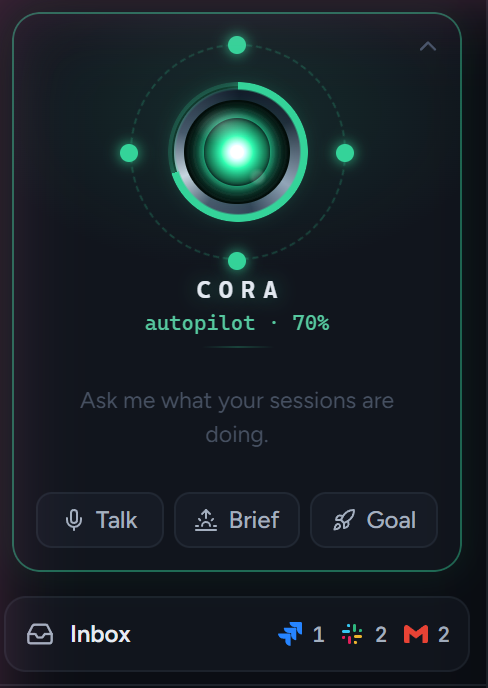
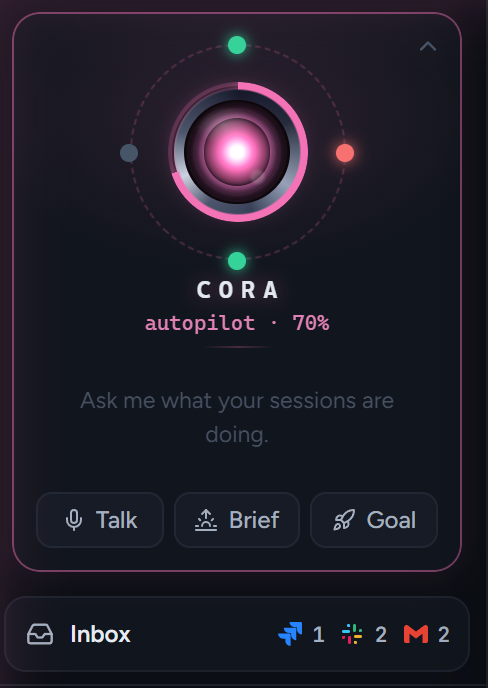
Autopilot in Cora's colour

diff --git a/packages/client/src/components/console.css b/packages/client/src/components/console.css
@@ -27,32 +27,32 @@
 .cc-menu > i { height: 1px; margin: 4px 6px; background: var(--hair); }
 .cora-console .cc-err { background: color-mix(in srgb, var(--need) 10%, var(--nav)); color: #ffc9c9; font: 500 11.5px var(--code); }
 
-/* autopilot: a panel tinted green */
-.cora-console .cc-goal, .cora-cmd .cc-goal { margin: 12px 12px 0; padding: 11px 12px; border: 0; border-radius: 12px; background: color-mix(in srgb, var(--work) 5%, var(--raise)); box-shadow: inset 0 0 0 1px color-mix(in srgb, var(--work) 28%, transparent); }
+/* autopilot: a panel tinted in Cora's colour */
+.cora-console .cc-goal, .cora-cmd .cc-goal { margin: 12px 12px 0; padding: 11px 12px; border: 0; border-radius: 12px; background: color-mix(in srgb, var(--cora) 5%, var(--raise)); box-shadow: inset 0 0 0 1px color-mix(in srgb, var(--cora) 28%, transparent); }
 .cora-cmd .cc-goal { margin: 0; }
 .cora-console .cc-goal.idle, .cora-cmd .cc-goal.idle { padding: 10px; }
 .cora-console .cc-goal.compose, .cora-cmd .cc-goal.compose { background: var(--raise); box-shadow: inset 0 0 0 1px var(--hair2); }
 .cora-console .cc-goal.st-waiting, .cora-cmd .cc-goal.st-waiting { box-shadow: inset 0 0 0 1px color-mix(in srgb, var(--think) 35%, transparent); }
 .cora-console .cc-goal.st-blocked, .cora-cmd .cc-goal.st-blocked { background: color-mix(in srgb, var(--need) 5%, var(--raise)); box-shadow: inset 0 0 0 1px color-mix(in srgb, var(--need) 35%, transparent); }
-.cc-goal .cg-ico { width: 30px; height: 30px; border: 0; border-radius: 8px; background: color-mix(in srgb, var(--work) 14%, var(--nav)); box-shadow: inset 0 0 0 1px color-mix(in srgb, var(--work) 35%, transparent); color: var(--work); }
+.cc-goal .cg-ico { width: 30px; height: 30px; border: 0; border-radius: 8px; background: color-mix(in srgb, var(--cora) 14%, var(--nav)); box-shadow: inset 0 0 0 1px color-mix(in srgb, var(--cora) 35%, transparent); color: var(--cora); }
 .cc-goal .cg-idle-t b { color: var(--ink); font: 600 12.5px var(--ui); }
 .cc-goal .cg-idle-t .dim { color: var(--ink3); font: 400 11.5px/1.4 var(--ui); }
-.cc-goal .cg-start { height: 28px; border: 0; border-radius: 8px; background: color-mix(in srgb, var(--work) 14%, var(--raise)); box-shadow: inset 0 0 0 1px color-mix(in srgb, var(--work) 40%, transparent); color: #d9fbe9; font: 500 12px var(--ui); }
-.cc-goal .cg-start:hover { background: color-mix(in srgb, var(--work) 22%, var(--raise)); box-shadow: inset 0 0 0 1px var(--work); }
-.cc-goal .cg-tag { color: var(--work); font: 600 9.5px var(--code); letter-spacing: .14em; }
+.cc-goal .cg-start { height: 28px; border: 0; border-radius: 8px; background: color-mix(in srgb, var(--cora) 14%, var(--raise)); box-shadow: inset 0 0 0 1px color-mix(in srgb, var(--cora) 40%, transparent); color: var(--cora-hi); font: 500 12px var(--ui); }
+.cc-goal .cg-start:hover { background: color-mix(in srgb, var(--cora) 22%, var(--raise)); box-shadow: inset 0 0 0 1px var(--cora); }
+.cc-goal .cg-tag { color: var(--cora); font: 600 9.5px var(--code); letter-spacing: .14em; }
 .cc-goal .cg-state { color: var(--ink3); font: 500 10.5px var(--code); }
 .cc-goal.st-waiting .cg-state { color: var(--think); }
 .cc-goal.st-blocked .cg-state { color: var(--need); }
 .cc-goal .cg-text { margin: 6px 0 9px; color: var(--ink); font: 500 13px/1.45 var(--ui); }
 .cc-goal .cg-bar { height: 3px; border-radius: 2px; background: var(--raise2); }
-.cc-goal .cg-bar i { border-radius: 2px; background: var(--work); box-shadow: none; }
+.cc-goal .cg-bar i { border-radius: 2px; background: var(--cora); box-shadow: none; }
 .cc-goal .cg-meta { margin-top: 8px; color: var(--ink4); font: 500 10.5px var(--code); }
 .cc-goal .cg-meta .warn { color: var(--think); }
 .cc-goal .cg-workers .linkish { color: var(--ink2); }
-.cc-goal .cg-workers .linkish::before { content: ''; display: inline-block; width: 6px; height: 6px; margin-right: 5px; border-radius: 50%; background: var(--work); vertical-align: 1px; }
+.cc-goal .cg-workers .linkish::before { content: ''; display: inline-block; width: 6px; height: 6px; margin-right: 5px; border-radius: 50%; background: var(--cora); vertical-align: 1px; }
 .cc-goal .cg-note { margin-top: 8px; color: var(--ink2); font: 400 12.5px/1.5 var(--ui); }
 .cc-goal.compose textarea { border: 0; border-radius: 8px; background: var(--nav); box-shadow: inset 0 0 0 1px var(--hair); color: var(--ink); font: 400 13px/1.5 var(--ui); }
-.cc-goal.compose textarea:focus { box-shadow: inset 0 0 0 1px color-mix(in srgb, var(--work) 50%, transparent); }
+.cc-goal.compose textarea:focus { box-shadow: inset 0 0 0 1px color-mix(in srgb, var(--cora) 50%, transparent); }
 .cc-goal .cg-row select { border: 0; border-radius: 7px; background: var(--nav); box-shadow: inset 0 0 0 1px var(--hair2); color: var(--ink2); font: 500 11px var(--code); }
 .cc-goal .btn.ghost { height: 22px; padding: 0 9px; border: 0; border-radius: 6px; background: var(--raise2); box-shadow: inset 0 0 0 1px var(--hair2); color: var(--ink2); font: 500 11px var(--ui); }
 
@@ -126,7 +126,7 @@
 /* ---------- command mode: the same pieces at full size ---------- */
 .cora-cmd { background: radial-gradient(700px 480px at 50% 34%, color-mix(in srgb, var(--c) 7%, transparent), transparent 70%), rgba(6, 8, 13, .97); color: var(--ink2); font-family: var(--ui); }
 .cora-cmd.st-idle, .cora-cmd.st-off { --c: var(--cora); }
-.cora-cmd.st-autopilot { --c: var(--work); }
+.cora-cmd.st-autopilot { --c: var(--cora); }
 .cora-cmd.st-thinking { --c: var(--think); }
 .cora-cmd.st-needs-you { --c: var(--need); }
 .cora-cmd .cm-lens::before { width: 560px; height: 560px; background: radial-gradient(circle, color-mix(in srgb, var(--c) 9%, transparent), transparent 62%); }
@@ -174,27 +174,27 @@
 
 /* autopilot in the header: a Goal button, or a pill with the running goal's progress */
 .cora-console .cc-gpill { display: inline-flex; align-items: center; gap: 6px; height: 24px; padding: 0 9px 0 7px; border: 0; border-radius: 7px; background: var(--raise); box-shadow: inset 0 0 0 1px var(--hair2); color: var(--ink2); font: 500 11.5px var(--ui); white-space: nowrap; cursor: pointer; }
-.cora-console .cc-gpill svg { color: var(--work); }
+.cora-console .cc-gpill svg { color: var(--cora); }
 .cora-console .cc-gpill:hover, .cora-console .cc-gpill.on { background: var(--raise2); color: var(--ink); }
-.cora-console .cc-gpill.live { background: color-mix(in srgb, var(--work) 9%, var(--raise)); box-shadow: inset 0 0 0 1px color-mix(in srgb, var(--work) 40%, transparent); color: #d9fbe9; font: 500 11px var(--code); }
+.cora-console .cc-gpill.live { background: color-mix(in srgb, var(--cora) 9%, var(--raise)); box-shadow: inset 0 0 0 1px color-mix(in srgb, var(--cora) 40%, transparent); color: var(--cora-hi); font: 500 11px var(--code); }
 .cora-console .cc-gpill.live.st-waiting { box-shadow: inset 0 0 0 1px color-mix(in srgb, var(--think) 45%, transparent); color: #fde9b0; }
 .cora-console .cc-gpill.live.st-blocked { box-shadow: inset 0 0 0 1px color-mix(in srgb, var(--need) 45%, transparent); color: #ffc9c9; }
-.cc-ring { width: 13px; height: 13px; border-radius: 50%; background: conic-gradient(var(--work) calc(var(--p) * 1%), var(--raise2) 0); -webkit-mask: radial-gradient(circle, transparent 3.5px, #000 4px); mask: radial-gradient(circle, transparent 3.5px, #000 4px); }
+.cc-ring { width: 13px; height: 13px; border-radius: 50%; background: conic-gradient(var(--cora) calc(var(--p) * 1%), var(--raise2) 0); -webkit-mask: radial-gradient(circle, transparent 3.5px, #000 4px); mask: radial-gradient(circle, transparent 3.5px, #000 4px); }
 .st-waiting > .cc-ring { background: conic-gradient(var(--think) calc(var(--p) * 1%), var(--raise2) 0); }
 .st-blocked > .cc-ring { background: conic-gradient(var(--need) calc(var(--p) * 1%), var(--raise2) 0); }
 /* under the header while a goal runs: what it's on, in one line */
-.cora-console .cc-gline { flex: none; display: flex; align-items: center; gap: 8px; height: 30px; padding: 0 12px; border: 0; border-bottom: 1px solid var(--hair); background: color-mix(in srgb, var(--work) 3%, var(--nav)); color: var(--ink3); font: 500 11px var(--ui); text-align: left; cursor: pointer; }
-.cora-console .cc-gline:hover { background: color-mix(in srgb, var(--work) 6%, var(--nav)); }
+.cora-console .cc-gline { flex: none; display: flex; align-items: center; gap: 8px; height: 30px; padding: 0 12px; border: 0; border-bottom: 1px solid var(--hair); background: color-mix(in srgb, var(--cora) 3%, var(--nav)); color: var(--ink3); font: 500 11px var(--ui); text-align: left; cursor: pointer; }
+.cora-console .cc-gline:hover { background: color-mix(in srgb, var(--cora) 6%, var(--nav)); }
 .cora-console .cc-gline b { flex: 1; min-width: 0; overflow: hidden; text-overflow: ellipsis; white-space: nowrap; color: var(--ink); font-weight: 500; }
 .cora-console .cc-gline .cc-gst { flex: none; color: var(--think); font: 500 10px var(--code); }
 .cora-console .cc-gline.st-blocked .cc-gst { color: var(--need); }
 .cora-console .cc-gline .cg-bar { flex: none; width: 54px; height: 3px; border-radius: 2px; background: var(--raise2); overflow: hidden; }
-.cora-console .cc-gline .cg-bar i { display: block; height: 100%; border-radius: 2px; background: var(--work); }
+.cora-console .cc-gline .cg-bar i { display: block; height: 100%; border-radius: 2px; background: var(--cora); }
 .cora-console .cc-gline .cc-gm { flex: none; color: var(--ink4); font: 500 10px var(--code); }
 /* the goal card, over the conversation */
 .cora-console .cc-goalpop { position: absolute; top: calc(var(--hdr) - 2px); z-index: 6; width: min(360px, calc(100% - 24px)); border-radius: 12px; box-shadow: 0 16px 40px rgba(0, 0, 0, .65); }
 .cora-console .cc-goalpop .cc-goal { margin: 0; }
-.cora-console .cc-goalpop .cc-goal:not(.compose) { background: color-mix(in srgb, var(--work) 6%, var(--raise)); }
+.cora-console .cc-goalpop .cc-goal:not(.compose) { background: color-mix(in srgb, var(--cora) 6%, var(--raise)); }
 
 /* talking to Cora: your words, live, and who they're for */
 .cora-console .cc-heard { display: flex; align-items: baseline; gap: 10px; margin: 0 0 8px; padding: 9px 12px; border-radius: 10px; background: color-mix(in srgb, var(--cora) 6%, var(--raise)); box-shadow: inset 0 0 0 1px color-mix(in srgb, var(--cora) 40%, transparent); }

diff --git a/packages/client/src/components/cora.css b/packages/client/src/components/cora.css
@@ -42,7 +42,7 @@
 .cora-bridge.st-thinking { --c: #fbbf24; }
 .cora-bridge.st-needs-you { --c: #f87171; }
 .cora-bridge.st-error { --c: #b91c1c; }
-.cora-bridge.st-autopilot { --c: #34d399; }
+.cora-bridge.st-autopilot { --c: var(--cora); }
 .cora-bridge.off { --c: #475569; }
 .cb-orbit { position: relative; display: grid; place-items: center; width: 108px; height: 108px; margin-top: 2px; }
 .cb-orbit::before { content: ''; position: absolute; inset: 0; border-radius: 50%; border: 1px dashed color-mix(in srgb, var(--c) 22%, transparent); animation: cl-spin 60s linear infinite; pointer-events: none; }
@@ -144,8 +144,8 @@
 .cc-ask-a { display: flex; flex-wrap: wrap; gap: 6px; }
 
 /* ---------- autopilot ---------- */
-.cora-lens.st-autopilot { --c: #34d399; }
-.cl-progress { position: absolute; inset: -3px; z-index: 1; border-radius: 50%; background: conic-gradient(#34d399 calc(var(--p, 0) * 1%), rgba(52, 211, 153, .15) 0); -webkit-mask: radial-gradient(circle, transparent 62%, #000 64%); mask: radial-gradient(circle, transparent 62%, #000 64%); filter: drop-shadow(0 0 4px rgba(52, 211, 153, .6)); }
+.cora-lens.st-autopilot { --c: var(--cora); }
+.cl-progress { position: absolute; inset: -3px; z-index: 1; border-radius: 50%; background: conic-gradient(var(--cora) calc(var(--p, 0) * 1%), color-mix(in srgb, var(--cora) 15%, transparent) 0); -webkit-mask: radial-gradient(circle, transparent 62%, #000 64%); mask: radial-gradient(circle, transparent 62%, #000 64%); filter: drop-shadow(0 0 4px color-mix(in srgb, var(--cora) 60%, transparent)); }
 .cc-h > * { flex: none; }
 .cc-h .cc-st { flex: 0 1 auto; min-width: 0; overflow: hidden; text-overflow: ellipsis; white-space: nowrap; }
 .cc-h .spacer { flex: 1 1 0; min-width: 4px; }
@@ -158,32 +158,32 @@
 .cc-away.on .cc-knob::after { transform: translateX(10px); background: var(--cora-hi); box-shadow: 0 0 6px var(--cora); }
 .cc-stand { padding: 0 9px; border-radius: 7px; color: #fecaca; border-color: #7f1d1d; background: #2a0a0a; }
 .cc-stand:hover { background: #450a0a; border-color: #ef4444; }
-.cc-goal { flex: none; margin: 10px 12px 0; padding: 10px 12px; border: 1px solid #14532d; border-radius: 10px; background: linear-gradient(180deg, rgba(52, 211, 153, .06), rgba(52, 211, 153, .01)); }
+.cc-goal { flex: none; margin: 10px 12px 0; padding: 10px 12px; border: 1px solid var(--cora-dim); border-radius: 10px; background: linear-gradient(180deg, color-mix(in srgb, var(--cora) 6%, transparent), color-mix(in srgb, var(--cora) 1%, transparent)); }
 .cc-goal.idle, .cc-goal.compose { border-color: #1e293b; background: none; }
-.cc-goal.idle { display: flex; align-items: center; gap: 10px; padding: 9px 10px; border-color: #14532d; background: linear-gradient(180deg, rgba(52, 211, 153, .07), rgba(52, 211, 153, .015)); }
-.cg-ico { flex: none; display: grid; place-items: center; width: 30px; height: 30px; border-radius: 9px; background: #052e1f; border: 1px solid #166534; color: #34d399; box-shadow: 0 0 12px rgba(52, 211, 153, .18); }
+.cc-goal.idle { display: flex; align-items: center; gap: 10px; padding: 9px 10px; border-color: var(--cora-dim); background: linear-gradient(180deg, color-mix(in srgb, var(--cora) 7%, transparent), color-mix(in srgb, var(--cora) 1.5%, transparent)); }
+.cg-ico { flex: none; display: grid; place-items: center; width: 30px; height: 30px; border-radius: 9px; background: var(--cora-deep); border: 1px solid var(--cora-dim); color: var(--cora); box-shadow: 0 0 12px color-mix(in srgb, var(--cora) 18%, transparent); }
 .cg-idle-t { display: flex; flex-direction: column; gap: 2px; min-width: 0; flex: 1; }
-.cg-idle-t b { color: #d1fae5; font: 600 12.5px system-ui, sans-serif; }
+.cg-idle-t b { color: var(--cora-hi); font: 600 12.5px system-ui, sans-serif; }
 .cg-idle-t .dim { font-size: 11.5px; line-height: 1.35; overflow: hidden; text-overflow: ellipsis; display: -webkit-box; -webkit-line-clamp: 2; -webkit-box-orient: vertical; }
 .cc-goal.st-waiting { border-color: #713f12; }
 .cc-goal.st-blocked { border-color: #7f1d1d; background: linear-gradient(180deg, rgba(248, 113, 113, .07), transparent); }
-.cg-start { flex: none; display: inline-flex; align-items: center; gap: 6px; height: 28px; padding: 0 12px; border: 1px solid #15803d; border-radius: 8px; background: #064e3b; color: #ecfdf5; font: 600 12px system-ui, sans-serif; cursor: pointer; }
-.cg-start:hover { background: #065f46; border-color: #34d399; }
+.cg-start { flex: none; display: inline-flex; align-items: center; gap: 6px; height: 28px; padding: 0 12px; border: 1px solid var(--cora-dim); border-radius: 8px; background: var(--cora-deep); color: color-mix(in srgb, var(--cora) 12%, #fff); font: 600 12px system-ui, sans-serif; cursor: pointer; }
+.cg-start:hover { background: color-mix(in srgb, var(--cora) 28%, #05080d); border-color: var(--cora); }
 .cg-last { overflow: hidden; text-overflow: ellipsis; white-space: nowrap; font: 11px var(--mono); }
 .cg-h { display: flex; align-items: center; gap: 8px; }
-.cg-tag { font: 700 10px var(--mono); letter-spacing: .2em; color: #34d399; }
+.cg-tag { font: 700 10px var(--mono); letter-spacing: .2em; color: var(--cora); }
 .cg-state { font: 11px var(--mono); color: #94a3b8; }
 .cc-goal.st-waiting .cg-state { color: #fcd34d; }
 .cc-goal.st-blocked .cg-state { color: #fca5a5; }
 .cg-text { margin: 6px 0 8px; color: #e2e8f0; font-size: 13px; line-height: 1.45; display: -webkit-box; -webkit-line-clamp: 3; -webkit-box-orient: vertical; overflow: hidden; }
-.cg-bar { height: 4px; border-radius: 2px; background: #10241b; overflow: hidden; }
-.cg-bar i { display: block; height: 100%; background: linear-gradient(90deg, #059669, #34d399); box-shadow: 0 0 8px #34d399; transition: width .4s; }
+.cg-bar { height: 4px; border-radius: 2px; background: color-mix(in srgb, var(--cora) 12%, #0b0e14); overflow: hidden; }
+.cg-bar i { display: block; height: 100%; background: linear-gradient(90deg, color-mix(in srgb, var(--cora) 65%, #000), var(--cora)); box-shadow: 0 0 8px var(--cora); transition: width .4s; }
 .cg-meta { display: flex; align-items: center; flex-wrap: wrap; gap: 10px; margin-top: 7px; font: 11px var(--mono); color: #94a3b8; }
 .cg-meta .warn { color: #fbbf24; }
 .cg-workers { display: inline-flex; flex-wrap: wrap; gap: 8px; }
-.cg-note { margin-top: 6px; color: #a7f3d0; font-size: 12px; line-height: 1.45; }
-.cc-goal.compose textarea { width: 100%; box-sizing: border-box; resize: vertical; padding: 8px 10px; border: 1px solid #14532d; border-radius: 8px; background: #050b08; color: #e2e8f0; font: 13px/1.45 system-ui, sans-serif; outline: none; }
-.cc-goal.compose textarea:focus { border-color: #34d399; }
+.cg-note { margin-top: 6px; color: var(--cora-hi); font-size: 12px; line-height: 1.45; }
+.cc-goal.compose textarea { width: 100%; box-sizing: border-box; resize: vertical; padding: 8px 10px; border: 1px solid var(--cora-dim); border-radius: 8px; background: var(--cora-deep); color: #e2e8f0; font: 13px/1.45 system-ui, sans-serif; outline: none; }
+.cc-goal.compose textarea:focus { border-color: var(--cora); }
 .cg-row { display: flex; align-items: center; gap: 8px; margin-top: 8px; }
 .cg-row select { height: 26px; border: 1px solid #1e293b; border-radius: 7px; background: #0b111c; color: #cbd5e1; font: 11.5px var(--mono); }
 .cc-opts { display: flex; flex-wrap: wrap; gap: 6px; }
@@ -197,7 +197,7 @@
 .cc-talk .ct-left { color: var(--cora); opacity: .7; }
 .cc-talk .ct-end { display: inline-grid; place-items: center; width: 16px; height: 16px; border: 0; border-radius: 5px; background: none; color: var(--cora-hi); cursor: pointer; }
 .cc-talk .ct-end:hover { background: var(--cora-dim); color: #ecfeff; }
-.by-cora { display: inline-block; margin-right: 5px; padding: 0 6px; border-radius: 7px; background: #052e1f; border: 1px solid #14532d; color: #6ee7b7; font: 9.5px/15px var(--mono); vertical-align: 1px; }
+.by-cora { display: inline-block; margin-right: 5px; padding: 0 6px; border-radius: 7px; background: var(--cora-deep); border: 1px solid var(--cora-dim); color: var(--cora-hi); font: 9.5px/15px var(--mono); vertical-align: 1px; }
 
 /* the window, while Cora is in charge */
 .app.cora-in-control::after { content: ''; position: fixed; inset: 0; z-index: 400; pointer-events: none; box-shadow: inset 0 0 0 2px color-mix(in srgb, var(--cora) 55%, transparent), inset 0 0 26px color-mix(in srgb, var(--cora) 22%, transparent); animation: cora-glow 3.2s ease-in-out infinite; }
@@ -206,12 +206,12 @@
 
 /* Settings → the mandate */
 .orch-repos { display: flex; flex-direction: column; gap: 4px; width: 100%; }
-.orch-repo { display: inline-flex; align-items: center; gap: 6px; width: fit-content; padding: 2px 4px 2px 8px; border: 1px solid #14532d; border-radius: 7px; background: #04140d; color: #a7f3d0; font: 12px var(--mono); }
+.orch-repo { display: inline-flex; align-items: center; gap: 6px; width: fit-content; padding: 2px 4px 2px 8px; border: 1px solid var(--cora-dim); border-radius: 7px; background: var(--cora-deep); color: var(--cora-hi); font: 12px var(--mono); }
 .orch-add { display: flex; align-items: center; gap: 8px; flex-wrap: wrap; width: 100%; margin-top: 6px; }
 .orch-add .set-input { flex: 1; min-width: 220px; }
 .orch-sugg { display: flex; flex-wrap: wrap; gap: 5px; margin-top: 6px; }
 .orch-chip { padding: 1px 8px; border: 1px dashed #334155; border-radius: 7px; background: none; color: #94a3b8; font: 11px var(--mono); cursor: pointer; }
-.orch-chip:hover { color: #e2e8f0; border-color: #34d399; }
+.orch-chip:hover { color: #e2e8f0; border-color: var(--cora); }
 .orch-limits { margin: 0; padding: 0; list-style: none; display: flex; flex-direction: column; gap: 3px; color: #fca5a5; font: 11.5px var(--mono); }
 .orch-limits li { display: flex; align-items: center; gap: 6px; }
 
@@ -223,7 +223,7 @@
 .cora-cmd.st-listening { --c: #a78bfa; }
 .cora-cmd.st-thinking { --c: #fbbf24; }
 .cora-cmd.st-needs-you { --c: #f87171; }
-.cora-cmd.st-autopilot { --c: #34d399; }
+.cora-cmd.st-autopilot { --c: var(--cora); }
 .cora-cmd.st-error { --c: #b91c1c; }
 /* the HUD rings round the lens */
 .cm-lens { position: relative; display: grid; place-items: center; margin: 10px 0 6px; }
